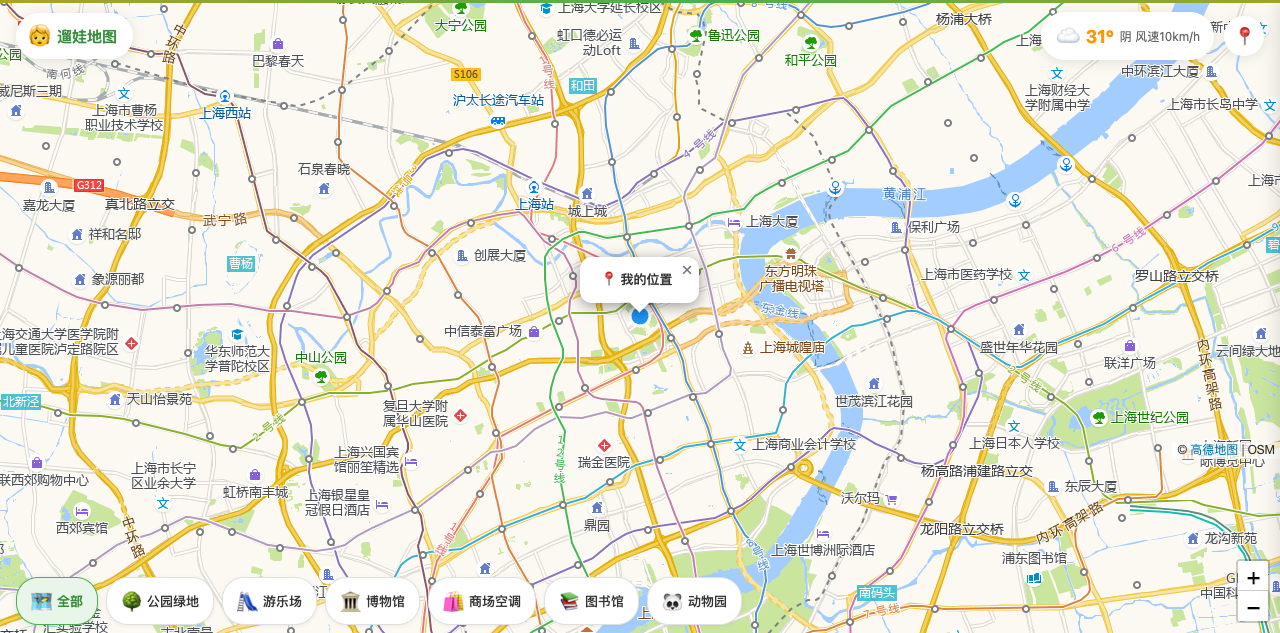
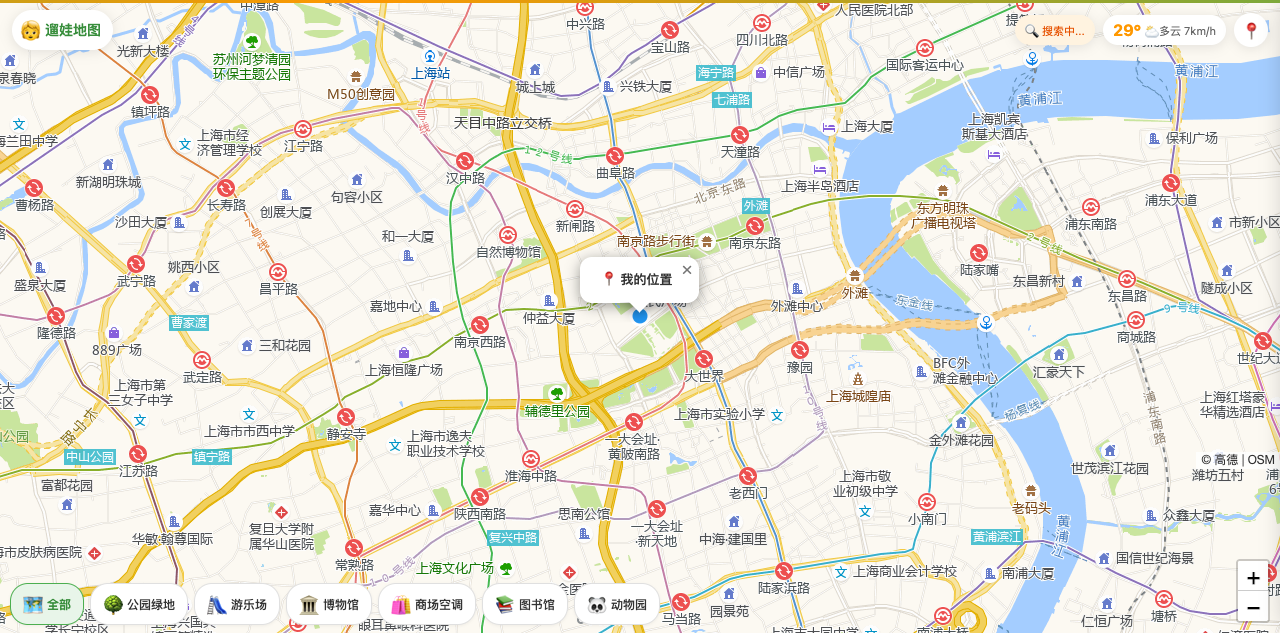
更新 README：新文件结构、天气建议、使用方法；更新截图

diff --git a/README.md b/README.md
@@ -5,11 +5,13 @@
 ## 功能特性
 
 - 📍 **自动定位**：获取当前位置，展示周边遛娃地点
-- 🌤️ **实时天气**：显示当前天气，智能推荐适合的活动类型
+- 🌤️ **实时天气**：显示当前天气，智能推荐适合的活动类型（晴/雨/高温等）
 - 🗺️ **地图浏览**：基于高德地图瓦片，支持国内流畅访问
 - 🏷️ **分类筛选**：公园绿地、游乐场、博物馆、商场空调、图书馆、动物园六大类
-- 📋 **地点列表**：抽屉式列表，按距离排序，一键导航到目标地点
+- 📋 **地点列表**：抽屉式列表，按距离排序，点击跳转地图
 - 📱 **移动适配**：支持手机和桌面端，触摸交互友好
+- 🔄 **智能重试**：首次搜索无结果时自动扩大范围重试
+- 🛡️ **离线兜底**：API 不可用时自动使用演示数据
 
 ## 数据来源
 
@@ -17,17 +19,31 @@
 - **天气**：[Open-Meteo](https://open-meteo.com/) 免费天气API
 - **地点**：[OpenStreetMap Overpass API](https://overpass-api.de/) 开源地理数据
 
-## 使用方法
+## 项目结构
 
-### 方式一：直接打开
-
-```bash
-open index.html
+```
+liuwa-map/
+├── index.html    # 主页面（HTML 结构）
+├── style.css     # 样式表（独立文件）
+├── app.js        # 应用逻辑（独立文件）
+├── proxy.py      # 本地代理服务器，解决 CORS 问题
+├── screenshot.png
+└── README.md
 ```
 
-> ⚠️ 部分浏览器的安全策略可能限制 `file://` 协议下的地理位置权限，建议使用方式二。
+## 使用方法
 
-### 方式二：本地服务器
+### 方式一：代理服务器（推荐）
+
+启动代理后，可通过 `/api/overpass` 代理请求，避免跨域问题：
+
+```bash
+python3 proxy.py 8080
+```
+
+然后打开 http://localhost:8080
+
+### 方式二：直接 HTTP 服务器
 
 ```bash
 # Python 3
@@ -39,32 +55,36 @@ npx serve .
 
 然后打开 http://localhost:8080
 
-### 方式三：VSCode Live Server
+### 方式三：直接打开文件
 
-安装 Live Server 插件，右键 `index.html` → "Open with Live Server"
-
-## 项目结构
-
+```bash
+open index.html
 ```
-liuwa-map/
-├── index.html    # 主页面（单文件应用）
-└── README.md     # 项目说明
-```
+
+> ⚠️ `file://` 协议下部分浏览器可能限制地理位置权限和跨域请求。
 
 ## 分类说明
 
 | 分类 | 图标 | 特点 | OSM数据源 |
 |------|------|------|-----------|
-| 公园绿地 | 🌳 | 户外、自然 | leisure=park, garden, nature_reserve |
-| 游乐场 | 🛝 | 户外、儿童设施 | leisure=playground |
-| 博物馆 | 🏛️ | 室内、有空调 | tourism=museum, gallery |
-| 商场空调 | 🛍️ | 室内、有空调 | shop=mall, building=retail |
-| 图书馆 | 📚 | 室内、有空调 | amenity=library |
-| 动物园 | 🐼 | 户外、亲子活动 | tourism=zoo, aquarium |
+| 公园绿地 | 🌳 | 户外、自然 | `leisure=park` `leisure=garden` `leisure=nature_reserve` |
+| 游乐场 | 🛝 | 户外、儿童设施 | `leisure=playground` |
+| 博物馆 | 🏛️ | 室内、有空调 | `tourism=museum` `tourism=gallery` |
+| 商场空调 | 🛍️ | 室内、有空调 | `shop=mall` `building=retail` `landuse=retail` |
+| 图书馆 | 📚 | 室内、有空调 | `amenity=library` |
+| 动物园 | 🐼 | 户外、亲子活动 | `tourism=zoo` `tourism=aquarium` |
+
+## 天气智能推荐
+
+应用会根据天气状况给出遛娃建议：
+- ☀️ 晴天高温（>30°C）→ 推荐室内（商场/博物馆/图书馆）
+- ☀️ 晴天舒适 → 推荐户外活动
+- 🌧️ 雨天 → 建议室内场所
+- ⛈️ 雷暴 → 建议居家
 
 ## 技术栈
 
 - [Leaflet.js](https://leafletjs.com/) - 开源地图库
 - 高德地图瓦片 - 国内地图渲染
 - Open-Meteo API - 天气数据
-- OpenStreetMap - 开源地理数据库
+- OpenStreetMap / Overpass API - 开源地理数据库